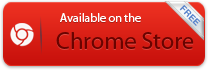
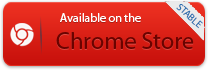
++
beta + stable

Changed region(s): [[0.7788, 0.0286, 1.0, 0.5714], [0.8654, 0.0, 0.8942, 0.0286]]

diff --git a/tr/index.html b/tr/index.html
@@ -59,8 +59,8 @@
                         <div id="pageContentWrapper">
                             <div class="extension_area">
                                 <p>
-                                    <a target="_blank" href="https://chrome.google.com/webstore/detail/ikariam-easy/eflmkpkfklepiajpjpmjbneomenkbpdl?hl=en" class="extension_button"></a>
-                                    <a target="_blank" href="https://chrome.google.com/webstore/detail/ikariam-easy-new-feature/nbgafacaepgodomleebpcjcfgeiceidb" class="extension_button"></a>
+                                    <a target="_blank" href="https://chrome.google.com/webstore/detail/eflmkpkfklepiajpjpmjbneomenkbpdl" class="extension_button_stable"></a>
+                                    <a target="_blank" href="https://chrome.google.com/webstore/detail/nbgafacaepgodomleebpcjcfgeiceidb" class="extension_button_beta"></a>
                                 </p>
                             </div>
                                 <div id="pageContentTop"></div>

diff --git a/index.html b/index.html
@@ -60,8 +60,8 @@
                         <div id="pageContentWrapper">
                             <div class="extension_area">
                                 <p>
-                                    <a target="_blank" href="https://chrome.google.com/webstore/detail/ikariam-easy/eflmkpkfklepiajpjpmjbneomenkbpdl?hl=en" class="extension_button"></a>
-                                    <a target="_blank" href="https://chrome.google.com/webstore/detail/ikariam-easy-new-feature/nbgafacaepgodomleebpcjcfgeiceidb" class="extension_button"></a>
+                                    <a target="_blank" href="https://chrome.google.com/webstore/detail/eflmkpkfklepiajpjpmjbneomenkbpdl" class="extension_button_stable"></a>
+                                    <a target="_blank" href="https://chrome.google.com/webstore/detail/nbgafacaepgodomleebpcjcfgeiceidb" class="extension_button_beta"></a>
                                 </p>
                             </div>
                             <div id="pageContentTop"></div>

diff --git a/ru/index.html b/ru/index.html
@@ -64,8 +64,8 @@
                     <div id="pageContentWrapper">
                         <div class="extension_area">
                             <p>
-                                <a target="_blank" href="https://chrome.google.com/webstore/detail/ikariam-easy/eflmkpkfklepiajpjpmjbneomenkbpdl?hl=en" class="extension_button"></a>
-                                <a target="_blank" href="https://chrome.google.com/webstore/detail/ikariam-easy-new-feature/nbgafacaepgodomleebpcjcfgeiceidb" class="extension_button"></a>
+                                <a target="_blank" href="https://chrome.google.com/webstore/detail/eflmkpkfklepiajpjpmjbneomenkbpdl" class="extension_button_stable"></a>
+                                <a target="_blank" href="https://chrome.google.com/webstore/detail/nbgafacaepgodomleebpcjcfgeiceidb" class="extension_button_beta"></a>
                              </p>
                         </div>
                         <div id="pageContentTop"></div>

diff --git a/css/style.css b/css/style.css
@@ -71,11 +71,18 @@ a.btn-small:hover {background-position:-201px -172px; text-decoration:none;}
     width:561px;
 }
 .extension_area {text-align:center}
-.extension_button { 
+.extension_button_stable { 
     height: 54px;
 display: inline-block;
 width: 173px;
 background: url(../img/chrome_stable.png) repeat;
+padding: 8px 18px;
+}
+.extension_button_beta { 
+    height: 54px;
+display: inline-block;
+width: 173px;
+background: url(../img/chrome_beta.png) repeat;
 padding: 8px 18px;
 }
 
